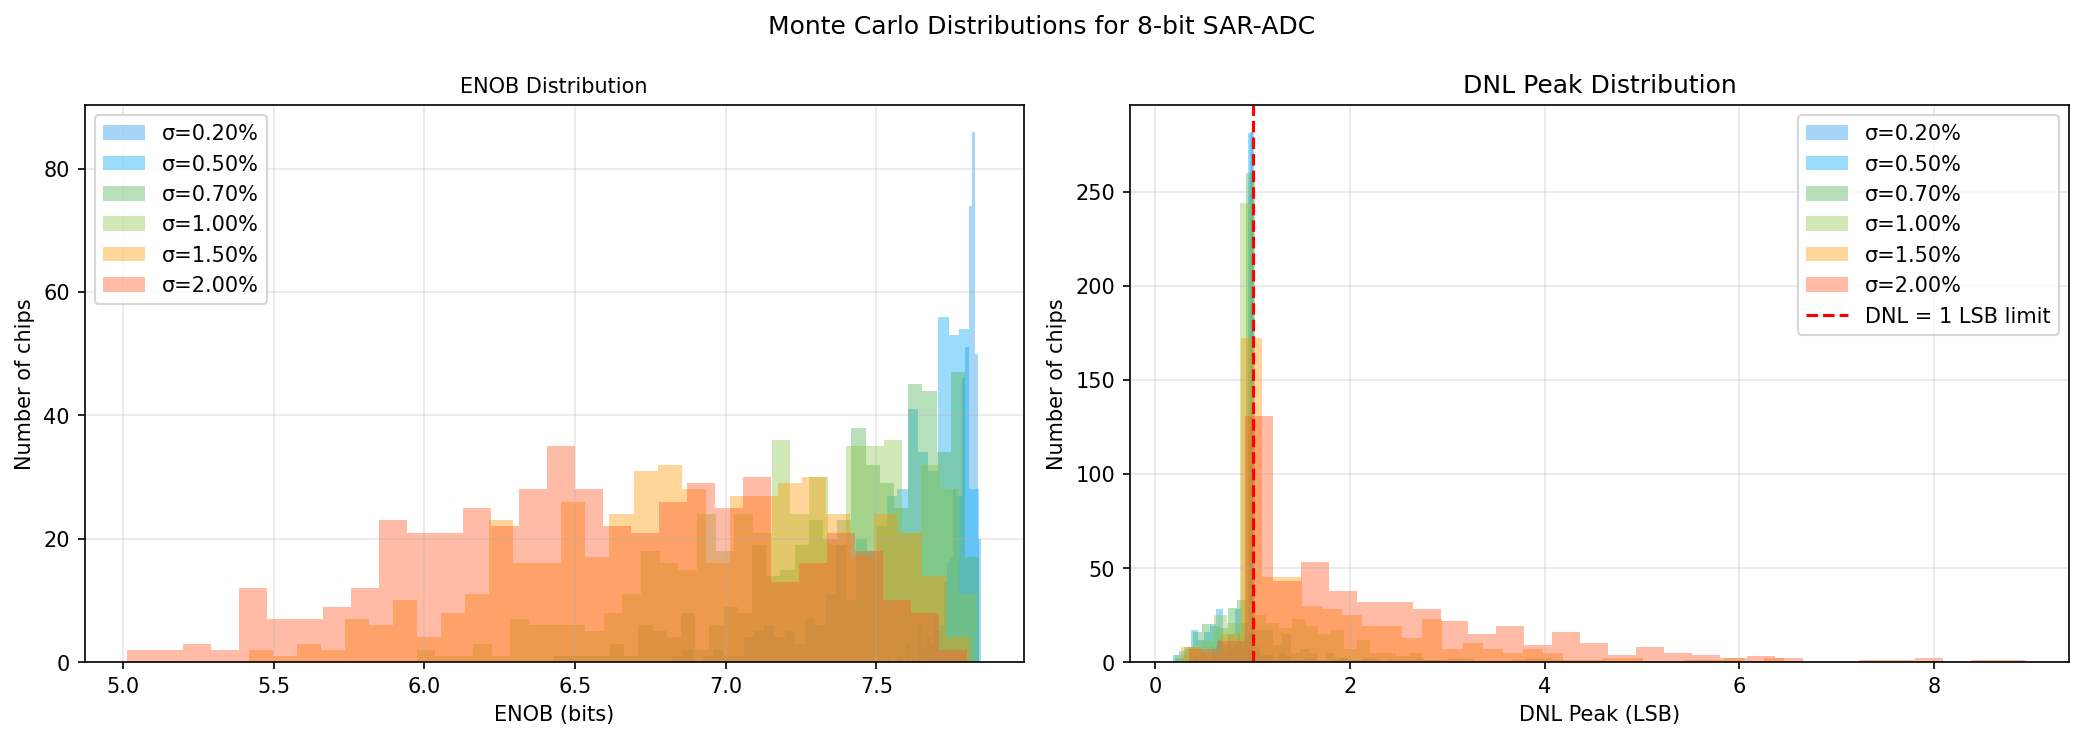
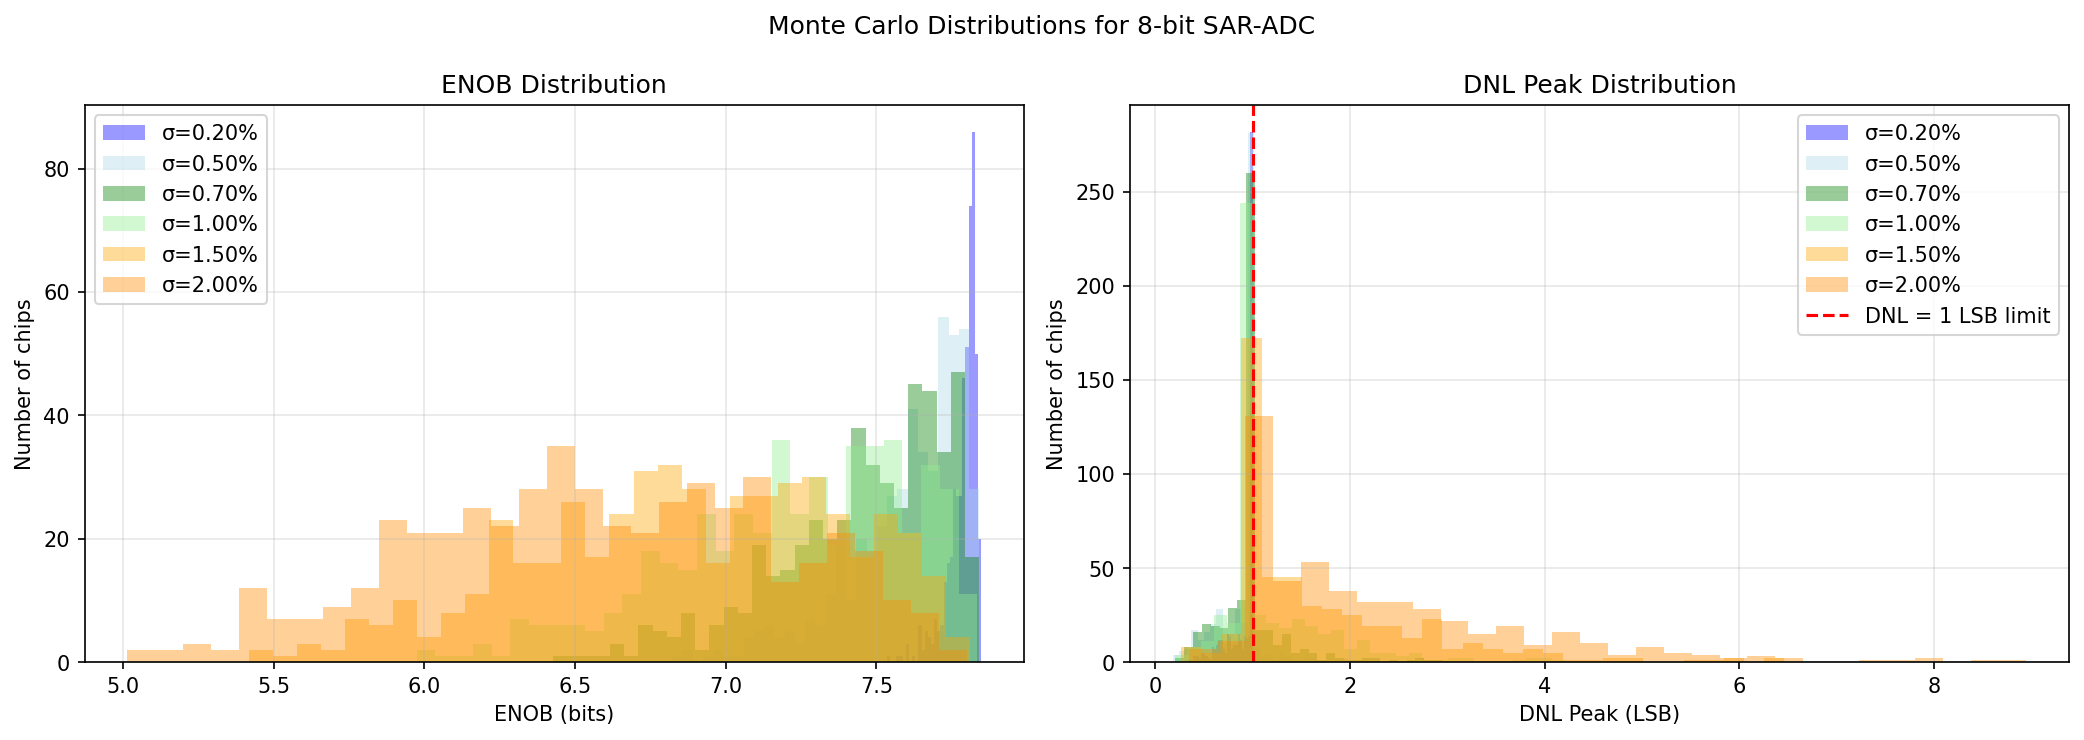
Modified the compute_sndr and parameters of graph and ran for new results

diff --git a/sar/monte_carlo.py b/sar/monte_carlo.py
@@ -11,14 +11,14 @@ Usage:
     python monte_carlo.py
 
 Author: Sugandh Mittal
-Date Modified: 27 February 2026
+Date Modified: 27 February 2026 (Edit 1: 03 March 2026)
 """
 
 import numpy as np
 import matplotlib.pyplot as plt
 
 from nonidealities import CapacitorMismatch
-from characterize import compute_sndr, compute_enob, compute_dnl_inl
+from characterize import compute_sndr, compute_enob, compute_dnl_inl, compute_fft
 
 # Parameters
 N_BITS       = 8
@@ -59,7 +59,8 @@ def run_sigma(sigma, signal):
             0, sigma, size=N_BITS
         )
         codes, _, _ = adc.convert_signal(signal)
-        sndr, _     = compute_sndr(codes, N_BITS)
+        _, _, power = compute_fft(codes, N_BITS, fs=FS)
+        sndr, sig_bin     = compute_sndr(power)
         dnl, inl    = compute_dnl_inl(adc)
 
         metrics["sndr"].append(sndr)
@@ -113,8 +114,8 @@ def plot_distributions(all_results):
     :param all_results: Dict mapping sigma to metrics dict
     :type all_results: dict
     """
-    colors = ['#2196F3', '#03A9F4', '#4CAF50', '#8BC34A',
-              '#FF9800', '#FF5722', '#E91E63', '#9C27B0', '#673AB7']
+    colors = ['blue', 'lightblue', 'green', 'lightgreen',
+              'orange', 'darkorange', 'pink', 'purple', 'darkmagenta']
 
     fig, axes = plt.subplots(1, 2, figsize=(14, 5))
     fig.suptitle(f"Monte Carlo Distributions for {N_BITS}-bit SAR-ADC")
@@ -130,19 +131,18 @@ def plot_distributions(all_results):
         axes[1].hist(r["dnl_peak"], bins=30, color=color, alpha=0.4,
                      label=label, edgecolor='none')
 
-    axes[0].set_xlabel("ENOB (bits)", fontsize=10)
-    axes[0].set_ylabel("Number of chips", fontsize=10)
-    axes[0].set_title("ENOB Distribution", fontsize=10)
+    axes[0].set_xlabel("ENOB (bits)")
+    axes[0].set_ylabel("Number of chips")
+    axes[0].set_title("ENOB Distribution")
     axes[0].legend()
-    axes[0].grid(True, alpha=0.3)
+    axes[0].grid(alpha=0.3)
 
-    axes[1].axvline(1.0, color='red',
-                    linestyle='--', label='DNL = 1 LSB limit')
+    axes[1].axvline(1.0, color='red', linestyle='--', label='DNL = 1 LSB limit')
     axes[1].set_xlabel("DNL Peak (LSB)")
     axes[1].set_ylabel("Number of chips")
     axes[1].set_title("DNL Peak Distribution")
     axes[1].legend()
-    axes[1].grid(True, alpha=0.3)
+    axes[1].grid(alpha=0.3)
 
     plt.tight_layout()
     plt.savefig('monte_carlo_distributions.png', dpi=150, bbox_inches='tight')
@@ -168,12 +168,10 @@ def plot_yield_sweep(all_results):
     fig, axes = plt.subplots(1, 2, figsize=(14, 5))
     fig.suptitle(f"Yield & ENOB vs Mismatch: {N_BITS}-bit SAR-ADC")
 
-    axes[0].plot(sigmas * 100, yields, 'o-', color='#2196F3',
-                 linewidth=2, markersize=7, markerfacecolor='white',
-                 markeredgewidth=2, label='Simulated yield')
+    axes[0].plot(sigmas * 100, yields, 'o-', color='skyblue', markerfacecolor='white', label='Simulated yield')
     axes[0].axvspan(0, 0.5, alpha=0.08, color='red',
                     label='Statistically unreliable (σ < 0.5%)')
-    axes[0].axvline(0.5, color='red', linewidth=1.0, linestyle='--', alpha=0.6)
+    axes[0].axvline(0.5, color='red', linestyle='--', alpha=0.6)
     axes[0].set_xlabel("Capacitor Mismatch σ (%)")
     axes[0].set_ylabel("Yield: DNL < 1 LSB (%)")
     axes[0].set_title("Yield vs Mismatch")
@@ -183,21 +181,18 @@ def plot_yield_sweep(all_results):
     axes[0].grid(True, alpha=0.3)
 
     # ENOB mean ± std curve
-    axes[1].plot(sigmas * 100, enob_means, 'o-', color='#FF5722',
-                 linewidth=2, markersize=7, markerfacecolor='white',
-                 markeredgewidth=2, label='Mean ENOB')
+    axes[1].plot(sigmas * 100, enob_means, 'o-', color='orange', markerfacecolor='white', label='Mean ENOB')
     axes[1].fill_between(sigmas * 100,
                           enob_means - enob_stds,
                           enob_means + enob_stds,
-                          alpha=0.2, color='#FF5722', label='±1σ')
-    axes[1].axhline(N_BITS - 0.5, color='green', linestyle='--',
-                    linewidth=1.0, label=f'{N_BITS - 0.5} bits target')
+                          alpha=0.2, color='orange', label='±1σ')
+    axes[1].axhline(N_BITS - 0.5, color='green', linestyle='--', label=f'{N_BITS - 0.5} bits target')
     axes[1].set_xlabel("Capacitor Mismatch σ (%)")
     axes[1].set_ylabel("ENOB (bits)")
     axes[1].set_title("ENOB vs Mismatch")
     axes[1].set_xlim(0, max(sigmas * 100) * 1.1)
     axes[1].legend()
-    axes[1].grid(True, alpha=0.3)
+    axes[1].grid(alpha=0.3)
 
     plt.tight_layout()
     plt.savefig('yield_sweep.png', dpi=150, bbox_inches='tight')
